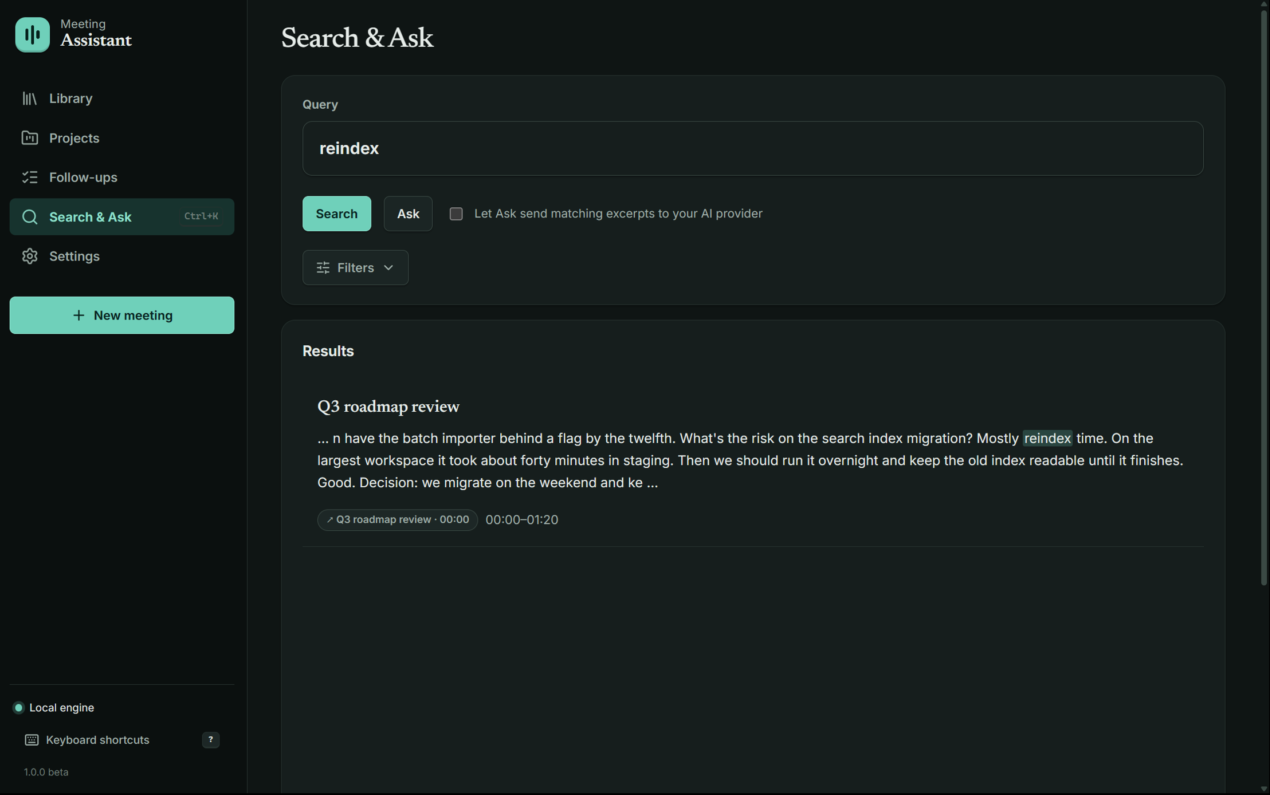
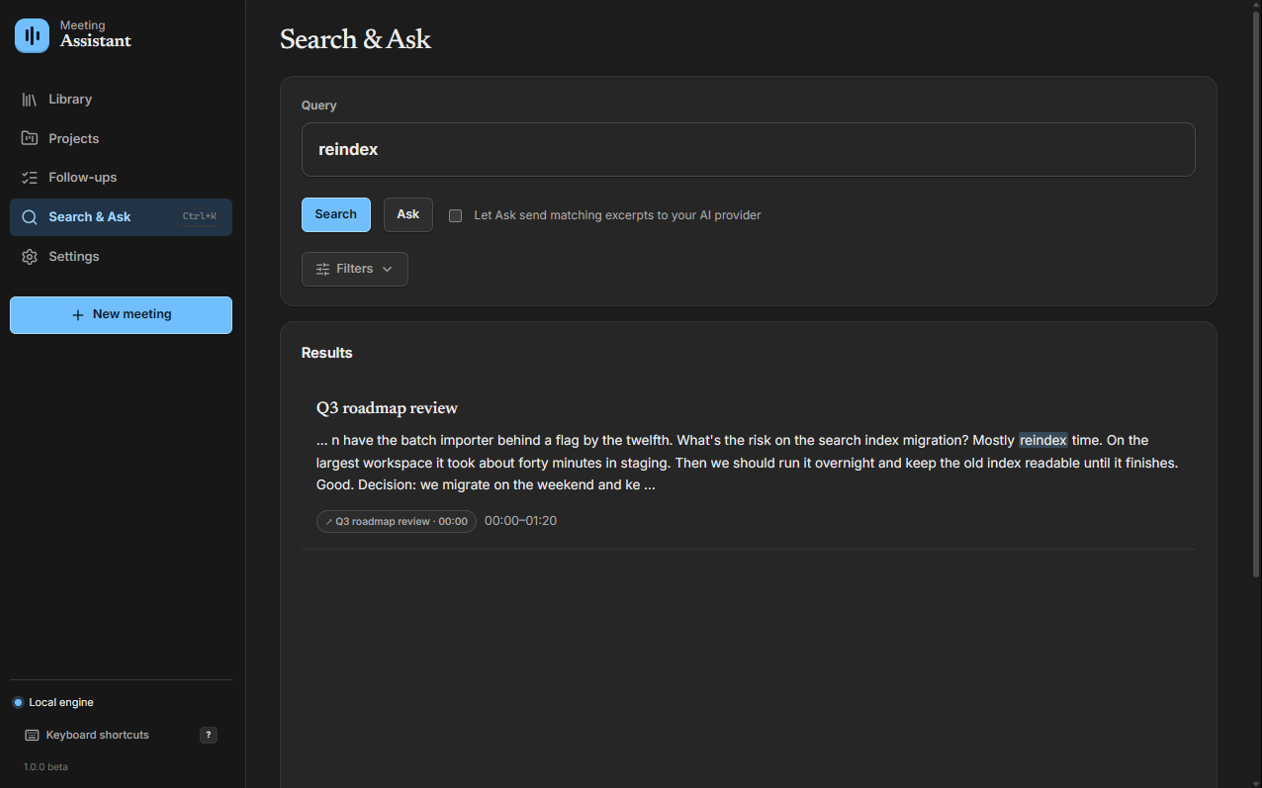
Desktop: restore window only on a visible monitor (physical coords); neutral grey + blue theme; full-width meeting tabs with transcript and notes; drop transcript disclaimer; refresh screenshots

diff --git a/apps/desktop/src/features/meeting.tsx b/apps/desktop/src/features/meeting.tsx
@@ -27,20 +27,21 @@ function MeetingWorkspace({ meeting }: { meeting: RecordData }) {
   const panel = useInterface((state) => state.panel);
   const setPanel = useInterface((state) => state.setPanel);
   const recording = ['recording', 'starting', 'paused'].includes(text(meeting.state));
-  const [notesVisible, setNotesVisible] = useState(true);
-  return <><PageHeader title={label(meeting)}><MeetingActions meeting={meeting} notesVisible={notesVisible} onToggleNotes={() => setNotesVisible(!notesVisible)} /></PageHeader><CaptureStatus meeting={meeting}><div className={styles.captureActions}><CaptureControls meeting={meeting} /></div></CaptureStatus>{meeting.health === 'degraded' && <Notice danger>Capture is degraded. Review individual source status; retry the missing source, pause, or explicitly continue with remaining audio. The app does not claim full capture.</Notice>}<div className={styles.meetingLayout}><main className={styles.transcriptColumn}><Transcript meetingId={meetingId} recording={recording} />{!recording && <ReplayPanel meetingId={meetingId} recording={recording} />}{!recording && <CandidatePanel meetingId={meetingId} />}</main><aside className={styles.resultsColumn} aria-label="Meeting notes and generated outcomes"><TabSet value={panel} onValueChange={setPanel} tabs={[
+  return <><PageHeader title={label(meeting)}><MeetingActions meeting={meeting} /></PageHeader><CaptureStatus meeting={meeting}><div className={styles.captureActions}><CaptureControls meeting={meeting} /></div></CaptureStatus>{meeting.health === 'degraded' && <Notice danger>Capture is degraded. Review individual source status; retry the missing source, pause, or explicitly continue with remaining audio. The app does not claim full capture.</Notice>}<TabSet value={panel} onValueChange={setPanel} tabs={[
+    { label: 'Transcript', content: <><Transcript meetingId={meetingId} recording={recording} />{!recording && <ReplayPanel meetingId={meetingId} recording={recording} />}{!recording && <CandidatePanel meetingId={meetingId} />}</> },
+    { label: 'Notes', content: <HumanNotes meetingId={meetingId} /> },
     { label: 'Summary', content: <><AnalysisPanel meetingId={meetingId} /><AnalysisPanel meetingId={meetingId} task="topics" /></> },
     { label: 'Actions', content: <ActionsPanel meetingId={meetingId} /> },
     { label: 'Questions', content: <><QuestionsPanel meetingId={meetingId} /><ImportantPanel meetingId={meetingId} /></> },
     { label: 'Speakers', content: <SpeakersPanel meetingId={meetingId} /> },
     { label: 'Minutes', content: <><MinutesPanel meeting={meeting} /><FinalizationPanel meetingId={meetingId} /></> },
-  ]} />{notesVisible && <HumanNotes meetingId={meetingId} />}</aside></div></>;
+  ]} /></>;
 }
 
 type MeetingDialog = 'export' | 'edit' | 'language' | 'delete' | null;
 
 /** One primary action (Export) plus an overflow menu; each dialog stays mounted so the menu can close first. */
-function MeetingActions({ meeting, notesVisible, onToggleNotes }: { meeting: RecordData; notesVisible: boolean; onToggleNotes: () => void }) {
+function MeetingActions({ meeting }: { meeting: RecordData }) {
   const navigate = useNavigate();
   const projects = useResource('projects.list');
   const packages = useResource('entity.list', { collection: 'work_packages' });
@@ -51,7 +52,6 @@ function MeetingActions({ meeting, notesVisible, onToggleNotes }: { meeting: Rec
     <ActionMenu label="More meeting actions" actions={[
       { label: 'Edit details…', onSelect: () => setDialog('edit') },
       { label: 'Output language…', onSelect: () => setDialog('language') },
-      { label: notesVisible ? 'Hide notes' : 'Show notes', onSelect: onToggleNotes },
       { label: 'Delete meeting…', danger: true, onSelect: () => setDialog('delete') },
     ]} />
     <ExportControls meeting={meeting} {...bind('export')} />

diff --git a/apps/desktop/src/styles/global.css b/apps/desktop/src/styles/global.css
@@ -9,19 +9,19 @@
   --font-mono: ui-monospace, 'Cascadia Code', SFMono-Regular, Consolas, monospace;
 
   color-scheme: light;
-  --canvas: #f5f4f0;
+  --canvas: #f3f3f3;
   --panel: #ffffff;
-  --sidebar: #ece9e2;
+  --sidebar: #ebebeb;
   --raised: #ffffff;
-  --text: #1b2321;
-  --muted: #57615d;
-  --faint: #8a938f;
-  --border: #e0ddd5;
-  --border-strong: #c9c5ba;
-  --soft: #efede7;
-  --accent: #0e6a5d;
-  --accent-strong: #0a5247;
-  --accent-soft: #dff0ea;
+  --text: #1b1b1b;
+  --muted: #5c5c5c;
+  --faint: #8a8a8a;
+  --border: #e3e3e3;
+  --border-strong: #c8c8c8;
+  --soft: #f0f0f0;
+  --accent: #005fb8;
+  --accent-strong: #004a91;
+  --accent-soft: #e1edf9;
   --accent-ink: #ffffff;
   --success: #1c6a39;
   --success-soft: #e4f3e8;
@@ -30,11 +30,11 @@
   --danger: #a2262d;
   --danger-soft: #fdeceb;
   --danger-border: #ecb7ba;
-  --overlay: #0f1a1799;
-  --selection: #bfe3d9;
-  --shadow-sm: 0 1px 2px #1b232112, 0 1px 1px #1b23210a;
-  --shadow-md: 0 4px 14px #1b23210f, 0 1px 3px #1b232112;
-  --shadow-lg: 0 24px 64px #1b232133, 0 4px 14px #1b232114;
+  --overlay: #00000066;
+  --selection: #c7e0f4;
+  --shadow-sm: 0 1px 2px #00000012, 0 1px 1px #0000000a;
+  --shadow-md: 0 4px 14px #0000000f, 0 1px 3px #00000012;
+  --shadow-lg: 0 24px 64px #00000033, 0 4px 14px #00000014;
 
   --radius-sm: 0.4rem;
   --radius: 0.65rem;
@@ -51,20 +51,20 @@
 
 [data-theme='dark'] {
   color-scheme: dark;
-  --canvas: #0f1514;
-  --panel: #161e1d;
-  --sidebar: #0b100f;
-  --raised: #1b2524;
-  --text: #e6ece9;
-  --muted: #a0b0aa;
-  --faint: #6f7f79;
-  --border: #26322f;
-  --border-strong: #3a4944;
-  --soft: #1d2726;
-  --accent: #6fd0ba;
-  --accent-strong: #8fe0cc;
-  --accent-soft: #17332e;
-  --accent-ink: #06231d;
+  --canvas: #1c1c1c;
+  --panel: #262626;
+  --sidebar: #171717;
+  --raised: #2e2e2e;
+  --text: #ededed;
+  --muted: #ababab;
+  --faint: #7a7a7a;
+  --border: #353535;
+  --border-strong: #4a4a4a;
+  --soft: #2c2c2c;
+  --accent: #4cc2ff;
+  --accent-strong: #99dcff;
+  --accent-soft: #1b3447;
+  --accent-ink: #001a29;
   --success: #9bd9ae;
   --success-soft: #153324;
   --warning: #f0d08a;
@@ -72,8 +72,8 @@
   --danger: #ffb0b4;
   --danger-soft: #41262a;
   --danger-border: #6f4146;
-  --overlay: #04090899;
-  --selection: #245046;
+  --overlay: #00000099;
+  --selection: #1f4c6b;
   --shadow-sm: 0 1px 2px #00000066;
   --shadow-md: 0 4px 14px #00000066;
   --shadow-lg: 0 24px 64px #000000a6;
@@ -82,20 +82,20 @@
 @media (prefers-color-scheme: dark) {
   :root:not([data-theme='light']):not([data-theme='dark']) {
     color-scheme: dark;
-    --canvas: #0f1514;
-    --panel: #161e1d;
-    --sidebar: #0b100f;
-    --raised: #1b2524;
-    --text: #e6ece9;
-    --muted: #a0b0aa;
-    --faint: #6f7f79;
-    --border: #26322f;
-    --border-strong: #3a4944;
-    --soft: #1d2726;
-    --accent: #6fd0ba;
-    --accent-strong: #8fe0cc;
-    --accent-soft: #17332e;
-    --accent-ink: #06231d;
+    --canvas: #1c1c1c;
+    --panel: #262626;
+    --sidebar: #171717;
+    --raised: #2e2e2e;
+    --text: #ededed;
+    --muted: #ababab;
+    --faint: #7a7a7a;
+    --border: #353535;
+    --border-strong: #4a4a4a;
+    --soft: #2c2c2c;
+    --accent: #4cc2ff;
+    --accent-strong: #99dcff;
+    --accent-soft: #1b3447;
+    --accent-ink: #001a29;
     --success: #9bd9ae;
     --success-soft: #153324;
     --warning: #f0d08a;
@@ -103,8 +103,8 @@
     --danger: #ffb0b4;
     --danger-soft: #41262a;
     --danger-border: #6f4146;
-    --overlay: #04090899;
-    --selection: #245046;
+    --overlay: #00000099;
+    --selection: #1f4c6b;
     --shadow-sm: 0 1px 2px #00000066;
     --shadow-md: 0 4px 14px #00000066;
     --shadow-lg: 0 24px 64px #000000a6;

diff --git a/apps/desktop/src/features/transcript.tsx b/apps/desktop/src/features/transcript.tsx
@@ -9,7 +9,7 @@ import { useCursorResource } from '../lib/paged-query';
 import { flushDrafts } from '../lib/drafts';
 import { useInterface } from '../lib/ui-store';
 import { array, clock, id, item, items, number, revision, text, type RecordData } from '../lib/data';
-import { accuracyNotice, AsyncView, Badge, CommandForm, Empty, ErrorNotice, Modal, Notice, Panel, Toolbar } from '../components/ui';
+import { AsyncView, Badge, CommandForm, Empty, ErrorNotice, Modal, Panel, Toolbar } from '../components/ui';
 import styles from './workspace.module.css';
 
 export function Transcript({ meetingId, recording }: { meetingId: string; recording: boolean }) {
@@ -29,7 +29,7 @@ export function Transcript({ meetingId, recording }: { meetingId: string; record
     if (query.hasNextPage && !query.isFetchingNextPage && (recording || (selected && !rows.some((row) => id(row) === selected)))) void query.fetchNextPage();
   }, [query.hasNextPage, query.isFetchingNextPage, rows.length, selected, recording]);
   const combined = { ...query, data: { items: rows } };
-  return <Panel title="Transcript"><Notice>{accuracyNotice}</Notice><InterimCaptions meetingId={meetingId} recording={recording} finalRows={rows} /><AsyncView query={combined}>{() => <TranscriptRows meetingId={meetingId} rows={rows} recording={recording} />}</AsyncView>{query.hasNextPage && <button disabled={query.isFetchingNextPage} onClick={() => { void query.fetchNextPage(); }}>{query.isFetchingNextPage ? 'Loading transcript page…' : 'Load more transcript'}</button>}</Panel>;
+  return <Panel><InterimCaptions meetingId={meetingId} recording={recording} finalRows={rows} /><AsyncView query={combined}>{() => <TranscriptRows meetingId={meetingId} rows={rows} recording={recording} />}</AsyncView>{query.hasNextPage && <button disabled={query.isFetchingNextPage} onClick={() => { void query.fetchNextPage(); }}>{query.isFetchingNextPage ? 'Loading transcript page…' : 'Load more transcript'}</button>}</Panel>;
 }
 
 function InterimCaptions({ meetingId, recording, finalRows }: { meetingId: string; recording: boolean; finalRows: RecordData[] }) {

diff --git a/apps/desktop/src/features/workspace.module.css b/apps/desktop/src/features/workspace.module.css
@@ -99,27 +99,6 @@
   flex-shrink: 0;
 }
 
-/* ---------- meeting layout ---------- */
-
-.meetingLayout {
-  display: grid;
-  grid-template-columns: minmax(340px, 1.1fr) minmax(360px, 1fr);
-  gap: 1.4rem;
-  align-items: start;
-}
-
-.transcriptColumn,
-.resultsColumn {
-  min-width: 0;
-}
-
-.resultsColumn > div:first-child > div:first-child {
-  position: sticky;
-  top: 3.6rem;
-  background: var(--canvas);
-  z-index: 5;
-}
-
 .captureActions {
   margin-left: auto;
   display: flex;
@@ -188,7 +167,7 @@
 /* ---------- transcript ---------- */
 
 .transcriptScroll {
-  height: 600px;
+  height: max(360px, calc(100vh - 19rem));
   overflow: auto;
   position: relative;
   overscroll-behavior: contain;
@@ -693,20 +672,6 @@
 
 /* ---------- responsive ---------- */
 
-@media (max-width: 1250px) {
-  .meetingLayout {
-    grid-template-columns: 1fr;
-  }
-
-  .transcriptScroll {
-    height: 480px;
-  }
-
-  .resultsColumn > div:first-child > div:first-child {
-    position: static;
-  }
-}
-
 @media (max-width: 700px) {
   .listRow {
     align-items: flex-start;
@@ -745,10 +710,6 @@
 
   .filters > div {
     max-width: none;
-  }
-
-  .transcriptScroll {
-    height: 430px;
   }
 }
 

diff --git a/apps/desktop/src/lib/ui-store.ts b/apps/desktop/src/lib/ui-store.ts
@@ -15,10 +15,10 @@ interface InterfaceState {
 export const useInterface = create<InterfaceState>((set) => ({
   activeMeeting: null,
   selectedUtterance: null,
-  panel: 'Summary',
+  panel: 'Transcript',
   shortcutsOpen: false,
   setActiveMeeting: (activeMeeting) => set({ activeMeeting }),
-  selectUtterance: (selectedUtterance) => set({ selectedUtterance }),
+  selectUtterance: (selectedUtterance) => set(selectedUtterance ? { selectedUtterance, panel: 'Transcript' } : { selectedUtterance }),
   setPanel: (panel) => set({ panel }),
   setShortcutsOpen: (shortcutsOpen) => set({ shortcutsOpen }),
 }));

diff --git a/apps/desktop/src-tauri/src/main.rs b/apps/desktop/src-tauri/src/main.rs
@@ -102,8 +102,22 @@ fn apply_preferences(app: &tauri::AppHandle, prefs: &Preferences) -> Result<()> 
         prefs.window.width,
         prefs.window.height,
     ))?;
+    // Position is stored in physical desktop pixels: logical coordinates are per-monitor on
+    // mixed-DPI setups and land off-screen when the window starts on a different monitor.
     if let (Some(x), Some(y)) = (prefs.window.x, prefs.window.y) {
-        window.set_position(tauri::LogicalPosition::new(x, y))?;
+        let (x, y) = (x as i32, y as i32);
+        // Title bar must be on a connected monitor, else keep the default centred placement.
+        let visible = window.available_monitors()?.iter().any(|monitor| {
+            let (origin, size) = (monitor.position(), monitor.size());
+            let (grab_x, grab_y) = (x + 100, y + 16);
+            grab_x >= origin.x
+                && grab_y >= origin.y
+                && grab_x < origin.x + size.width as i32
+                && grab_y < origin.y + size.height as i32
+        });
+        if visible {
+            window.set_position(tauri::PhysicalPosition::new(x, y))?;
+        }
     }
     window.set_theme(match prefs.theme.as_str() {
         "light" => Some(tauri::Theme::Light),
@@ -728,7 +742,8 @@ fn persist_geometry(app: tauri::AppHandle) {
             return;
         };
         let size = size.to_logical::<f64>(scale);
-        let position = position.to_logical::<f64>(scale);
+        // Physical on purpose; see apply_preferences.
+        let position = position.cast::<f64>();
         if size.width < 640. || size.height < 400. {
             return;
         }

diff --git a/README.md b/README.md
@@ -30,9 +30,9 @@ Fireflies or Granola.
 |---|---|
 | ![Meeting library](docs/screenshots/library.png) | ![Follow-ups](docs/screenshots/followups.png) |
 
-| Transcript and actions | Search with transcript evidence |
+| Meeting transcript | Search with transcript evidence |
 |---|---|
-| ![Meeting view](docs/screenshots/actions.png) | ![Search & Ask](docs/screenshots/search.png) |
+| ![Meeting transcript](docs/screenshots/transcript.png) | ![Search & Ask](docs/screenshots/search.png) |
 
 Screenshots use a synthetic demo workspace; no real meeting data.
 
